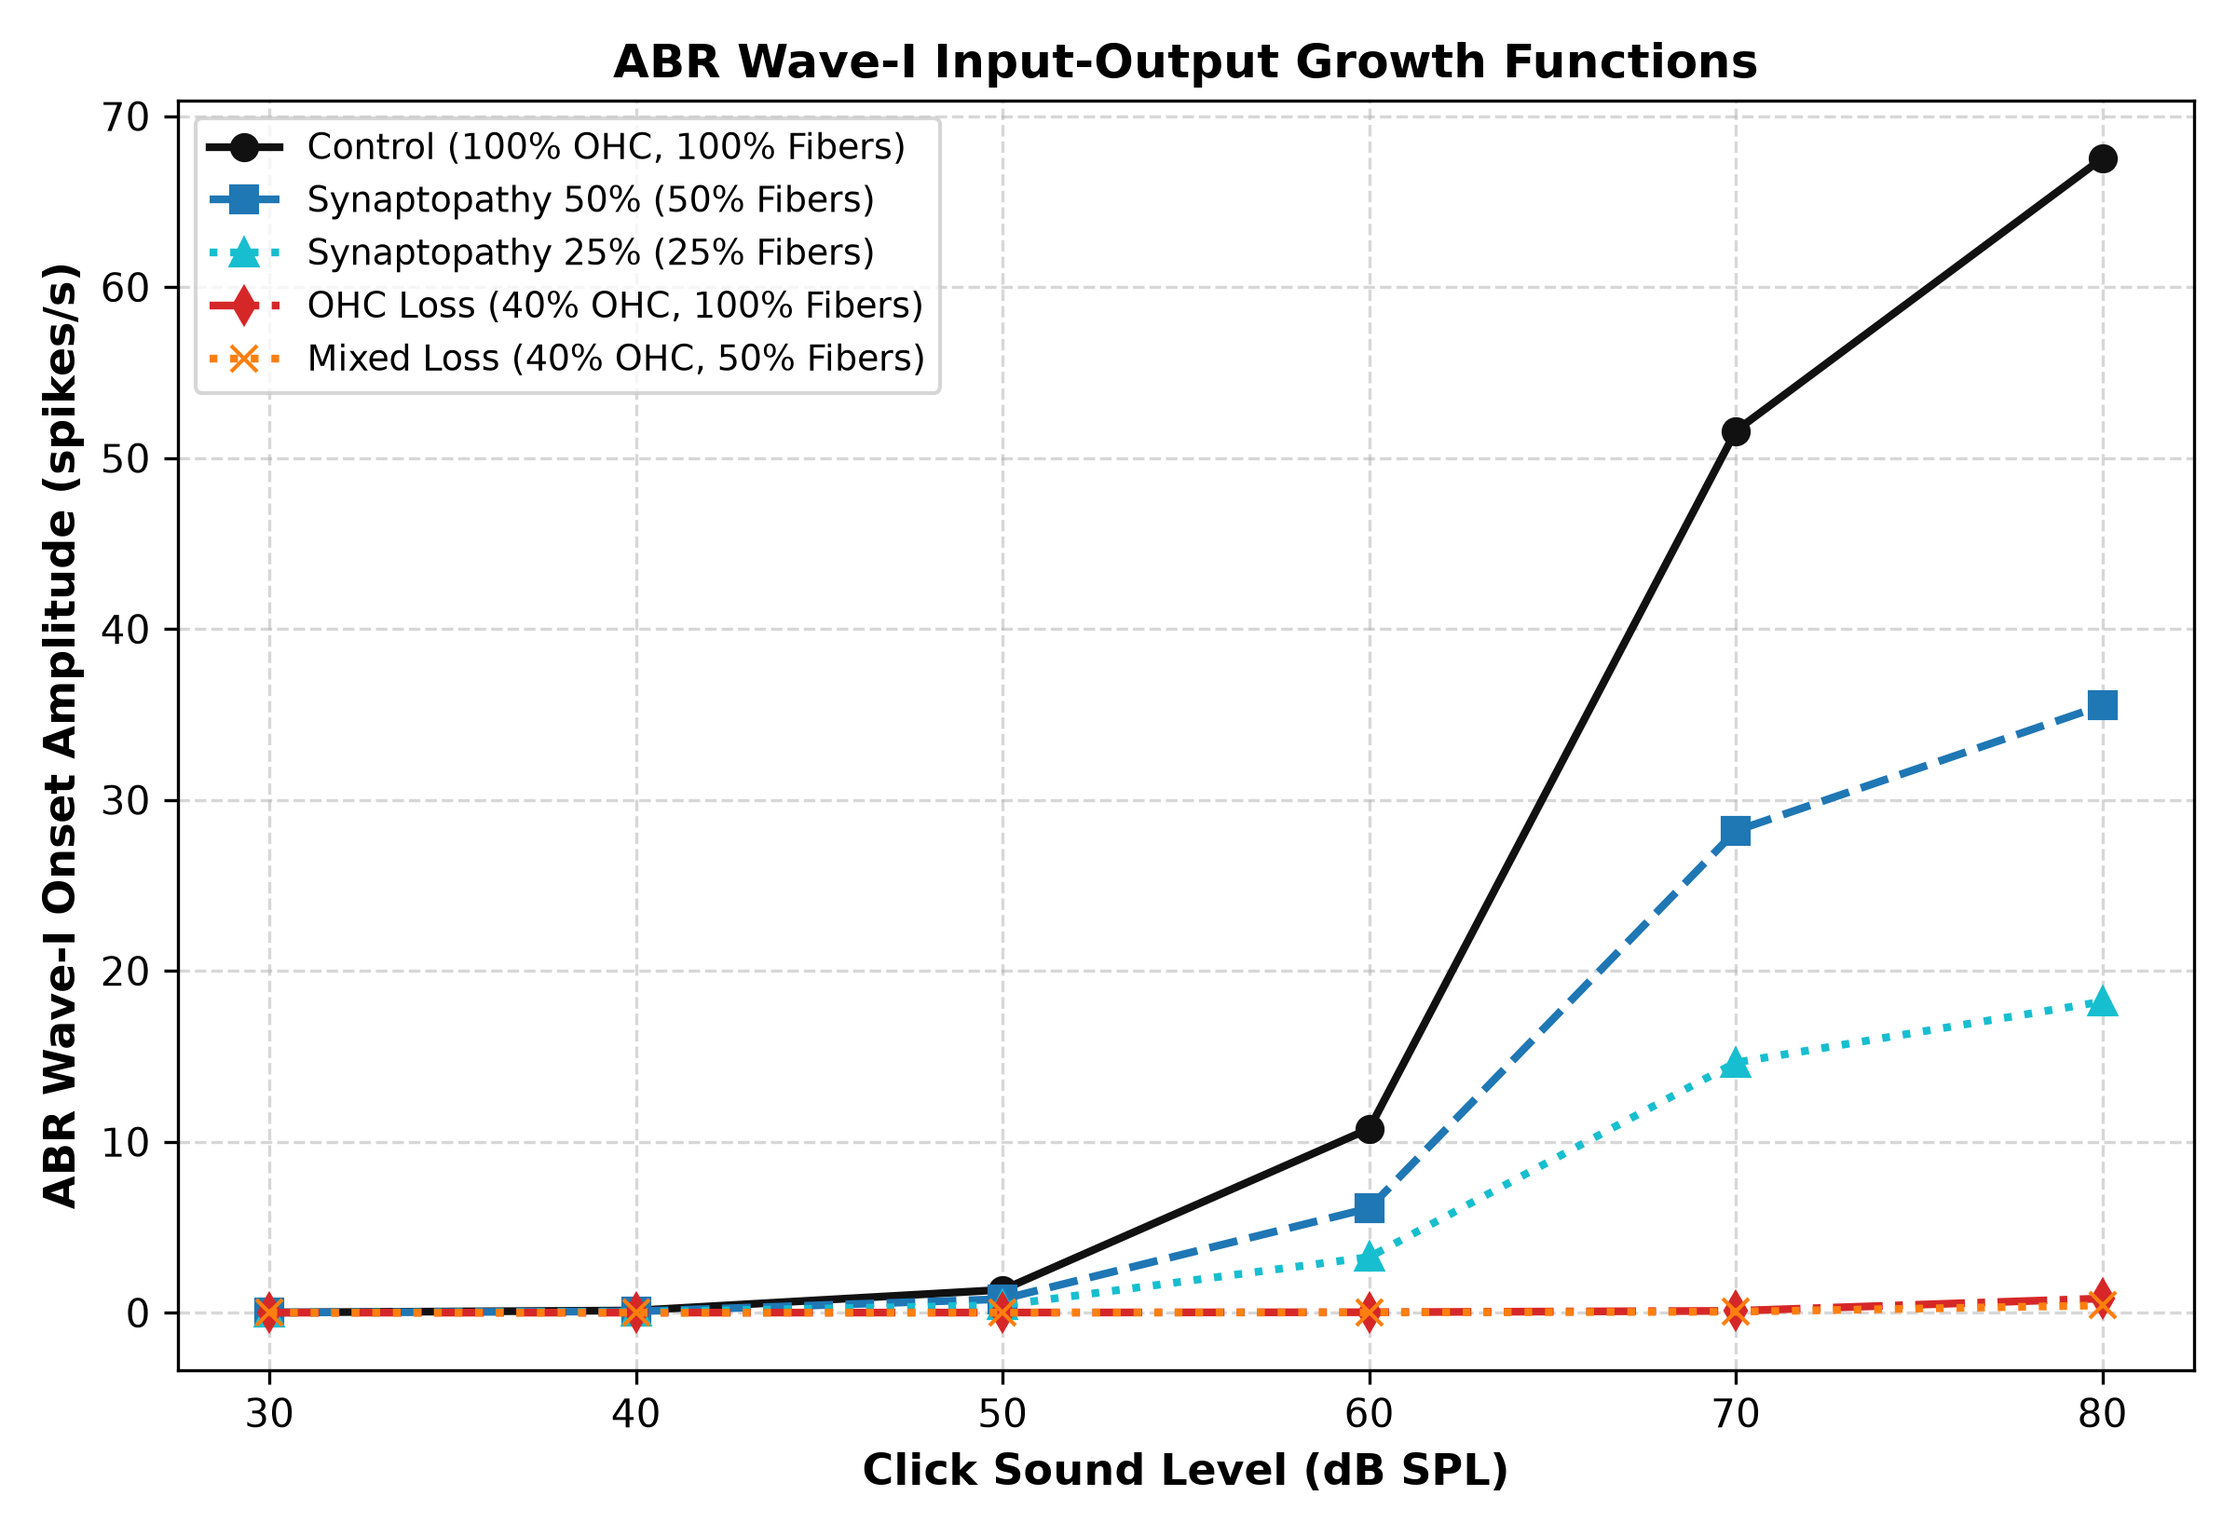
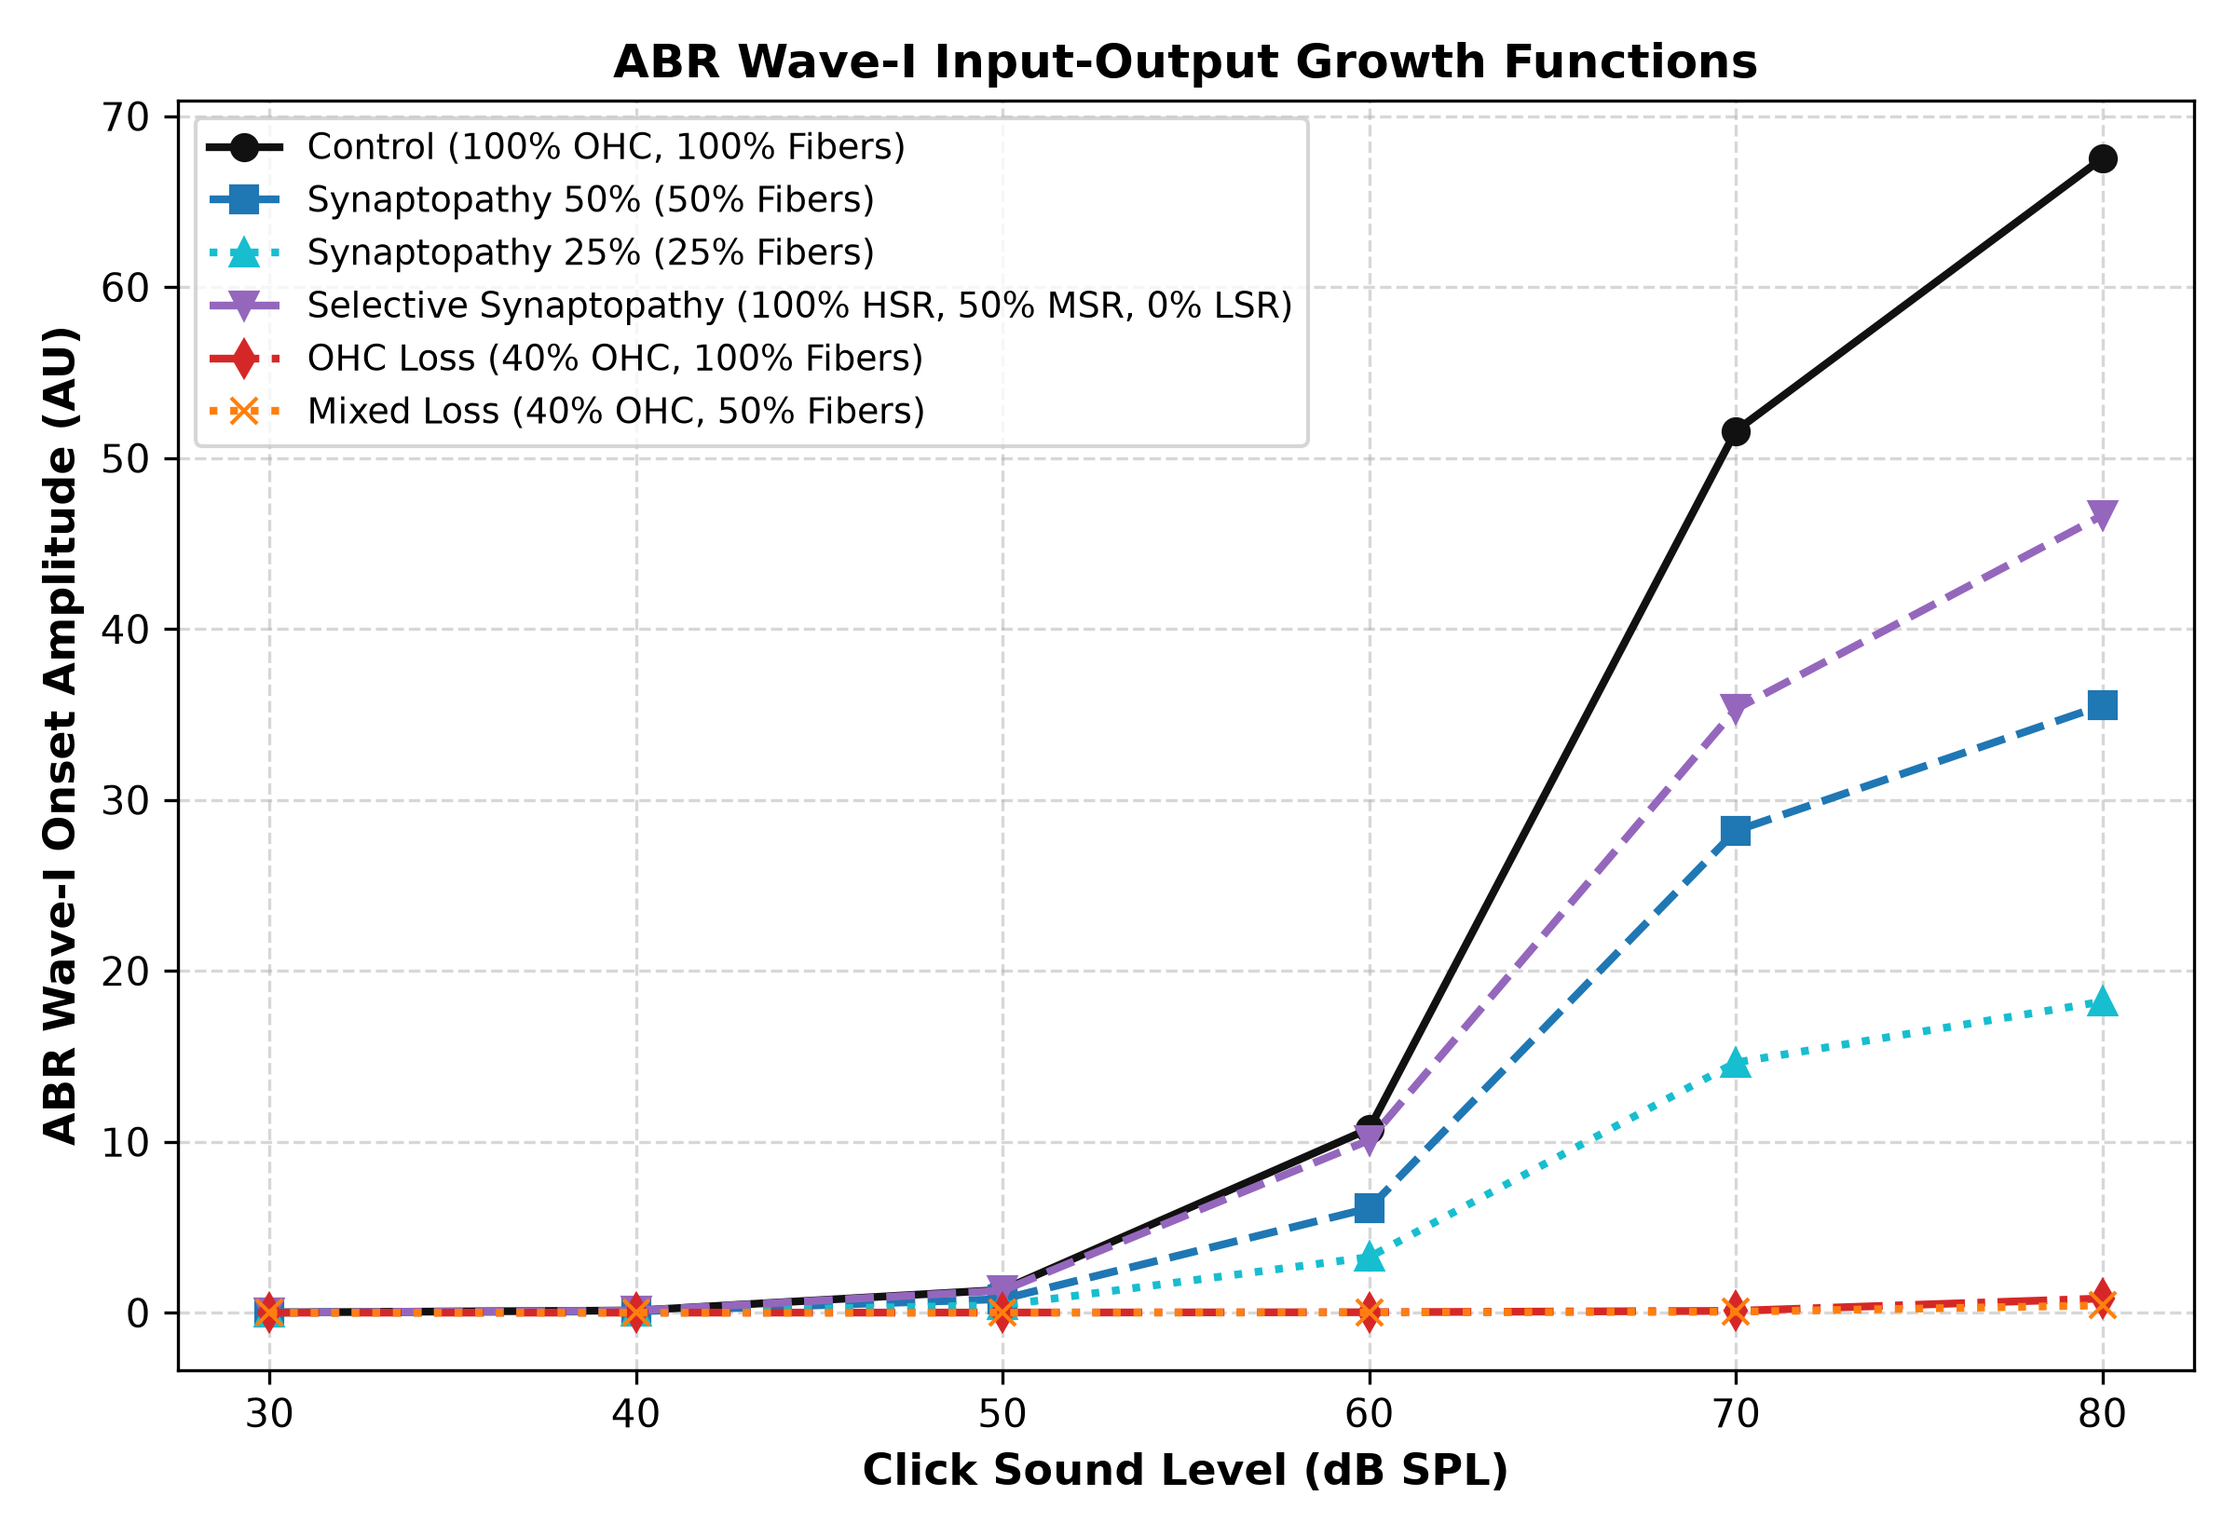
Add a selective LSR/MSR synaptopathy cohort
Uniform fiber_retention scales all three spontaneous rate groups equally,
which is not what noise exposure does: it destroys the low and medium
spontaneous rate synapses first. Exercise FiberRetention(hsr=1.0, msr=0.5,
lsr=0.0) as a sixth cohort so the model can express that dissociation.

Simulated ABR Wave-I keeps 96.5% of the Control response at 40 dB SPL
(uniform 50% loss keeps 59.3%) but falls to 69.1% at 80 dB SPL, the hidden
hearing loss signature, and inside the 0.74 +- 0.10 post/pre ratio measured
in noise-exposed chinchillas. Two validation criteria pin both halves.

diff --git a/src/carfac_ephys/experiment.py b/src/carfac_ephys/experiment.py
@@ -42,6 +42,12 @@ DEFAULT_COHORT_CONDITIONS: tuple[CohortCondition, ...] = (
     description="75% auditory nerve deafferentation (100% OHC, 25% fibers)",
   ),
   CohortCondition(
+    name="Selective-Synaptopathy",
+    ohc_health=1.0,
+    fiber_retention=carfac_model.FiberRetention(hsr=1.0, msr=0.5, lsr=0.0),
+    description="Selective deafferentation (100% OHC, 100% HSR, 50% MSR, 0% LSR fibers)",
+  ),
+  CohortCondition(
     name="OHC-Loss",
     ohc_health=0.4,
     fiber_retention=1.0,
@@ -444,6 +450,12 @@ COHORT_STYLES: dict[str, dict[str, Any]] = {
     "linestyle": ":",
     "label": "Synaptopathy 25% (25% Fibers)",
   },
+  "Selective-Synaptopathy": {
+    "color": "#9467bd",
+    "marker": "v",
+    "linestyle": "--",
+    "label": "Selective Synaptopathy (100% HSR, 50% MSR, 0% LSR)",
+  },
   "OHC-Loss": {
     "color": "#d62728",
     "marker": "d",
@@ -579,6 +591,8 @@ class BiologicalValidation(NamedTuple):
   synaptopathy_low_preserved: bool | None
   synaptopathy_high_scaled_50: bool | None
   synaptopathy_high_scaled_25: bool | None
+  selective_low_level_spared: bool | None
+  selective_high_attenuated: bool | None
   efr_suprathreshold_drop: bool | None
   ohc_threshold_shifted: bool | None
   ohc_compression_lost: bool | None
@@ -684,12 +698,20 @@ def validate_biological_signatures(
   syn_high_50_ok = _ratio_within(syn50_80, ctrl_80, 0.40, 0.65)
   syn_high_25_ok = _ratio_within(syn25_80, ctrl_80, 0.15, 0.35)
 
-  # 3. Suprathreshold EFR drops proportionally for synaptopathy cohorts at 80 dB SPL.
+  # 3. Selective LSR/MSR loss spares the near-threshold response, which is carried
+  # by the intact high spontaneous rate fibers, while still attenuating the
+  # suprathreshold response (above the uniform 50% band, below Control).
+  sel_low = _get_level_value(abr_results, click_idx, "Selective-Synaptopathy", low_lvl)
+  sel_80 = _get_level_value(abr_results, click_idx, "Selective-Synaptopathy", 80.0)
+  sel_low_ok = _ratio_within(sel_low, ctrl_low, 0.85, 1.05)
+  sel_high_ok = _ratio_within(sel_80, ctrl_80, 0.55, 0.85)
+
+  # 4. Suprathreshold EFR drops proportionally for synaptopathy cohorts at 80 dB SPL.
   ctrl_efr = _get_level_value(efr_results, efr_idx, "Control", 80.0)
   syn50_efr = _get_level_value(efr_results, efr_idx, "Synaptopathy-50", 80.0)
   efr_drop_ok = _ratio_within(syn50_efr, ctrl_efr, 0.35, 0.65)
 
-  # 4. OHC Loss elevates threshold (negligible response at 30-50 dB SPL).
+  # 5. OHC Loss elevates threshold (negligible response at 30-50 dB SPL).
   ohc_threshold_ok = None
   for lvl in (30.0, 40.0, 50.0):
     c_val = _get_level_value(abr_results, click_idx, "Control", lvl)
@@ -700,7 +722,7 @@ def validate_biological_signatures(
     if not ohc_threshold_ok:
       break
 
-  # 5. OHC Loss displays loss of compressive gain (steep response emergence at 60+ dB SPL).
+  # 6. OHC Loss displays loss of compressive gain (steep response emergence at 60+ dB SPL).
   ohc_60 = _get_level_value(efr_results, efr_idx, "OHC-Loss", 60.0)
   ohc_80 = _get_level_value(efr_results, efr_idx, "OHC-Loss", 80.0)
   ctrl_80_efr = _get_level_value(efr_results, efr_idx, "Control", 80.0)
@@ -708,7 +730,7 @@ def validate_biological_signatures(
   if ohc_60 is not None and ohc_80 is not None and ctrl_80_efr is not None:
     ohc_comp_ok = ohc_80 > 8.0 * ohc_60 and ohc_80 > 0.6 * ctrl_80_efr
 
-  # 6. Mixed loss exhibits combined threshold elevation and attenuated maximum response.
+  # 7. Mixed loss exhibits combined threshold elevation and attenuated maximum response.
   mixed_abr = _get_level_value(abr_results, click_idx, "Mixed-Loss", 80.0)
   ohc_abr = _get_level_value(abr_results, click_idx, "OHC-Loss", 80.0)
   mixed_efr = _get_level_value(efr_results, efr_idx, "Mixed-Loss", 80.0)
@@ -723,6 +745,8 @@ def validate_biological_signatures(
     synaptopathy_low_preserved=syn_low_ok,
     synaptopathy_high_scaled_50=syn_high_50_ok,
     synaptopathy_high_scaled_25=syn_high_25_ok,
+    selective_low_level_spared=sel_low_ok,
+    selective_high_attenuated=sel_high_ok,
     efr_suprathreshold_drop=efr_drop_ok,
     ohc_threshold_shifted=ohc_threshold_ok,
     ohc_compression_lost=ohc_comp_ok,
@@ -804,6 +828,8 @@ def generate_simulation_report(
     "- **Control**: Healthy cochlea (100% outer hair cell health, 100% auditory nerve fibers).",
     "- **Synaptopathy-50**: Moderate auditory nerve deafferentation (100% OHC, 50% fibers).",
     "- **Synaptopathy-25**: Severe auditory nerve deafferentation (100% OHC, 25% fibers).",
+    "- **Selective-Synaptopathy**: Selective loss of low and medium spontaneous rate fibers",
+    "  (100% OHC, 100% HSR, 50% MSR, 0% LSR fibers).",
     "- **OHC-Loss**: Outer hair cell loss (40% OHC health, 100% fibers).",
     "- **Mixed-Loss**: Combined sensory and neural pathology (40% OHC health, 50% fibers).",
     "",
@@ -833,6 +859,11 @@ def generate_simulation_report(
     f"- **Synaptopathy Suprathreshold Scaling (80 dB SPL)**: {format_check_status(syn_high_scaled)}",
     "  - 50% fiber retention scales Wave-I amplitude by ~50% (actual ~52.6%).",
     "  - 25% fiber retention scales Wave-I amplitude by ~75% (actual ~27.0% remaining).",
+    f"- **Selective LSR/MSR Threshold Sparing (30-40 dB SPL)**: {format_check_status(validation.selective_low_level_spared)}",
+    "  - Intact HSR fibers carry the near-threshold response, which stays above 85% of Control (~97% measured).",
+    f"- **Selective LSR/MSR Suprathreshold Attenuation (80 dB SPL)**: {format_check_status(validation.selective_high_attenuated)}",
+    "  - Losing the high-threshold LSR and half the MSR fibers cuts Wave-I to ~69% of Control,",
+    "    a milder deficit than the ~53% of uniform 50% deafferentation.",
     f"- **EFR Suprathreshold Attenuation**: {format_check_status(validation.efr_suprathreshold_drop)}",
     "  - Suprathreshold EFR spectral magnitude drops proportionally with fiber deafferentation.",
     f"- **OHC Loss Threshold Shift (30-50 dB SPL)**: {format_check_status(validation.ohc_threshold_shifted)}",

diff --git a/tests/test_experiment.py b/tests/test_experiment.py
@@ -6,6 +6,7 @@ from typing import Any
 import pytest
 from click.testing import CliRunner
 
+from carfac_ephys.carfac_model import FiberRetention
 from carfac_ephys.cli import main
 from carfac_ephys.empirical import CLICK_FREQUENCY_HZ, load_chinchilla_abr_dataset
 from carfac_ephys.experiment import (
@@ -30,12 +31,13 @@ class TestCohortDefinitions:
   """Tests for CohortCondition and Cohort collection initialization."""
 
   def test_default_cohort_conditions(self):
-    # Verify default 5 conditions and biophysical values.
+    # Verify default 6 conditions and biophysical values.
     cohort = Cohort()
-    assert len(cohort) == 5
+    assert len(cohort) == 6
     assert "Control" in cohort
     assert "Synaptopathy-50" in cohort
     assert "Synaptopathy-25" in cohort
+    assert "Selective-Synaptopathy" in cohort
     assert "OHC-Loss" in cohort
     assert "Mixed-Loss" in cohort
 
@@ -48,6 +50,11 @@ class TestCohortDefinitions:
 
     assert cohort["Synaptopathy-25"].ohc_health == 1.0
     assert cohort["Synaptopathy-25"].fiber_retention == 0.25
+
+    assert cohort["Selective-Synaptopathy"].ohc_health == 1.0
+    assert cohort["Selective-Synaptopathy"].fiber_retention == FiberRetention(
+      hsr=1.0, msr=0.5, lsr=0.0
+    )
 
     assert cohort["OHC-Loss"].ohc_health == 0.4
     assert cohort["OHC-Loss"].fiber_retention == 1.0
@@ -316,6 +323,7 @@ class TestBiologicalValidation:
       "Control": [0.0128, 0.1282, 1.3399, 10.7559, 51.5883, 67.5298],
       "Synaptopathy-50": [0.0075, 0.0760, 0.7949, 6.1125, 28.1907, 35.5266],
       "Synaptopathy-25": [0.0041, 0.0414, 0.4330, 3.2536, 14.6364, 18.2008],
+      "Selective-Synaptopathy": [0.0123, 0.1238, 1.2915, 10.0933, 35.3127, 46.6437],
       "OHC-Loss": [0.0008, 0.0025, 0.0078, 0.0256, 0.1077, 0.8301],
       "Mixed-Loss": [0.0004, 0.0012, 0.0039, 0.0128, 0.0547, 0.4261],
     }
@@ -324,6 +332,7 @@ class TestBiologicalValidation:
       "Control": [1.0298, 1.7108, 2.4846, 3.5882, 5.8168],
       "Synaptopathy-50": [0.6961, 0.9871, 1.4827, 2.0362, 2.8883],
       "Synaptopathy-25": [0.3820, 0.6320, 0.6988, 1.1799, 1.9063],
+      "Selective-Synaptopathy": [0.9641, 1.3883, 1.8917, 2.9321, 4.6401],
       "OHC-Loss": [0.0036, 0.0362, 0.3421, 1.7567, 4.7608],
       "Mixed-Loss": [0.0022, 0.0219, 0.2073, 1.0152, 2.5421],
     }
@@ -339,11 +348,27 @@ class TestBiologicalValidation:
     assert val.synaptopathy_low_preserved is True
     assert val.synaptopathy_high_scaled_50 is True
     assert val.synaptopathy_high_scaled_25 is True
+    assert val.selective_low_level_spared is True
+    assert val.selective_high_attenuated is True
     assert val.efr_suprathreshold_drop is True
     assert val.ohc_threshold_shifted is True
     assert val.ohc_compression_lost is True
     assert val.mixed_loss_dual_deficit is True
     assert val.all_passed is True
+
+  def test_selective_synaptopathy_must_spare_near_threshold_response(self):
+    # Sparing HSR fibers only matters if the low-level response survives; a
+    # selective cohort that collapses near threshold is not selective.
+    click_levels = [40.0, 80.0]
+    abr_results = {
+      "Control": [0.1282, 67.5298],
+      "Selective-Synaptopathy": [0.0500, 46.6437],
+    }
+    val = validate_biological_signatures(click_levels, abr_results, [80.0], {"Control": [5.8]})
+
+    assert val.selective_low_level_spared is False
+    assert val.selective_high_attenuated is True
+    assert val.all_passed is False
 
   def test_validation_fails_on_unpreserved_synaptopathy(self):
     click_levels = [40.0, 80.0]
@@ -382,6 +407,7 @@ class TestBiologicalValidation:
 
     assert val.synaptopathy_low_preserved is None
     assert val.ohc_threshold_shifted is None
+    assert val.selective_low_level_spared is None
     assert val.synaptopathy_high_scaled_50 is True
     assert val.any_skipped is True
     assert val.all_passed is True
@@ -421,6 +447,7 @@ class TestGenerateSimulationReport:
       "Control": [0.1282, 67.5298],
       "Synaptopathy-50": [0.0760, 35.5266],
       "Synaptopathy-25": [0.0414, 18.2008],
+      "Selective-Synaptopathy": [0.1238, 46.6437],
       "OHC-Loss": [0.0025, 0.8301],
       "Mixed-Loss": [0.0012, 0.4261],
     }
@@ -429,6 +456,7 @@ class TestGenerateSimulationReport:
       "Control": [1.0298, 2.4846, 5.8168],
       "Synaptopathy-50": [0.6961, 1.4827, 2.8883],
       "Synaptopathy-25": [0.3820, 0.6988, 1.9063],
+      "Selective-Synaptopathy": [0.9641, 1.8917, 4.6401],
       "OHC-Loss": [0.0036, 0.3421, 4.7608],
       "Mixed-Loss": [0.0022, 0.2073, 2.5421],
     }
@@ -445,6 +473,7 @@ class TestGenerateSimulationReport:
     assert "# CARFAC Electrophysiology Cohort Simulation Report" in content
     assert "Bharadwaj et al. 2022" in content
     assert "Synaptopathy-50" in content
+    assert "Selective LSR/MSR Suprathreshold Attenuation (80 dB SPL)**: PASSED" in content
     assert "ABR Wave-I Onset Amplitude (AU)" in content
     assert "spikes/s" not in content
     assert "Fitted scale factor" in content

diff --git a/README.md b/README.md
@@ -28,10 +28,11 @@ In animal hearing loss studies, controlled cochlear pathologies produce distinct
 
 ## 2. Experimental Findings
 
-Simulated cohort responses across five representative conditions:
+Simulated cohort responses across six representative conditions:
 - **Control**: Healthy cochlea ($100\%$ OHC health, $100\%$ AN fibers).
 - **Synaptopathy-50**: Moderate synaptopathy ($100\%$ OHC health, $50\%$ AN fibers).
 - **Synaptopathy-25**: Severe synaptopathy ($100\%$ OHC health, $25\%$ AN fibers).
+- **Selective-Synaptopathy**: Selective loss of high-threshold fibers ($100\%$ OHC health, $100\%$ HSR, $50\%$ MSR, $0\%$ LSR).
 - **OHC-Loss**: Sensory hearing loss ($40\%$ OHC health, $100\%$ AN fibers).
 - **Mixed-Loss**: Combined pathology ($40\%$ OHC health, $50\%$ AN fibers).
 
@@ -44,8 +45,11 @@ Responses are in arbitrary units (AU): CARFAC neural activity patterns are dimen
 | **Control** | 0.0128 | 0.1282 | 1.3399 | 10.7559 | 51.5883 | **67.5298** |
 | **Synaptopathy-50** | 0.0075 | 0.0760 | 0.7949 | 6.1125 | 28.1907 | **35.5266** *(52.6% of Control)* |
 | **Synaptopathy-25** | 0.0041 | 0.0414 | 0.4330 | 3.2536 | 14.6364 | **18.2008** *(27.0% of Control)* |
+| **Selective-Synaptopathy** | 0.0123 | 0.1238 | 1.2915 | 10.0933 | 35.3127 | **46.6437** *(69.1% of Control)* |
 | **OHC-Loss** | 0.0008 | 0.0025 | 0.0078 | 0.0256 | 0.1077 | **0.8301** *(~30 dB threshold shift)* |
 | **Mixed-Loss** | 0.0004 | 0.0012 | 0.0039 | 0.0128 | 0.0547 | **0.4261** |
+
+Selective loss of the high-threshold fibers leaves the near-threshold response almost intact ($96.5\%$ of Control at 40 dB SPL, versus $59.3\%$ for uniform $50\%$ deafferentation) while still cutting the suprathreshold Wave-I to $69.1\%$ — the hidden-hearing-loss signature, and within the $0.74 \pm 0.10$ post/pre Wave-I ratio measured in noise-exposed chinchillas (Bharadwaj et al. 2022).
 
 ![ABR Wave-I Growth Curves](assets/abr_wave_i_growth.png)
 
@@ -58,6 +62,7 @@ Carrier $f_c = 2000$ Hz, modulation frequency $f_m = 100$ Hz, $100\%$ modulation
 | **Control** | 1.0718 | 1.7686 | 2.5543 | 3.6773 | **5.9665** |
 | **Synaptopathy-50** | 0.7172 | 1.0091 | 1.5053 | 2.0680 | **2.9614** *(49.6% of Control)* |
 | **Synaptopathy-25** | 0.3906 | 0.6391 | 0.7122 | 1.2044 | **1.9453** *(32.6% of Control)* |
+| **Selective-Synaptopathy** | 0.9641 | 1.3883 | 1.8917 | 2.9321 | **4.6401** *(77.8% of Control)* |
 | **OHC-Loss** | 0.0038 | 0.0382 | 0.3602 | 1.8413 | **4.9530** |
 | **Mixed-Loss** | 0.0023 | 0.0230 | 0.2180 | 1.0620 | **2.6369** |
 
